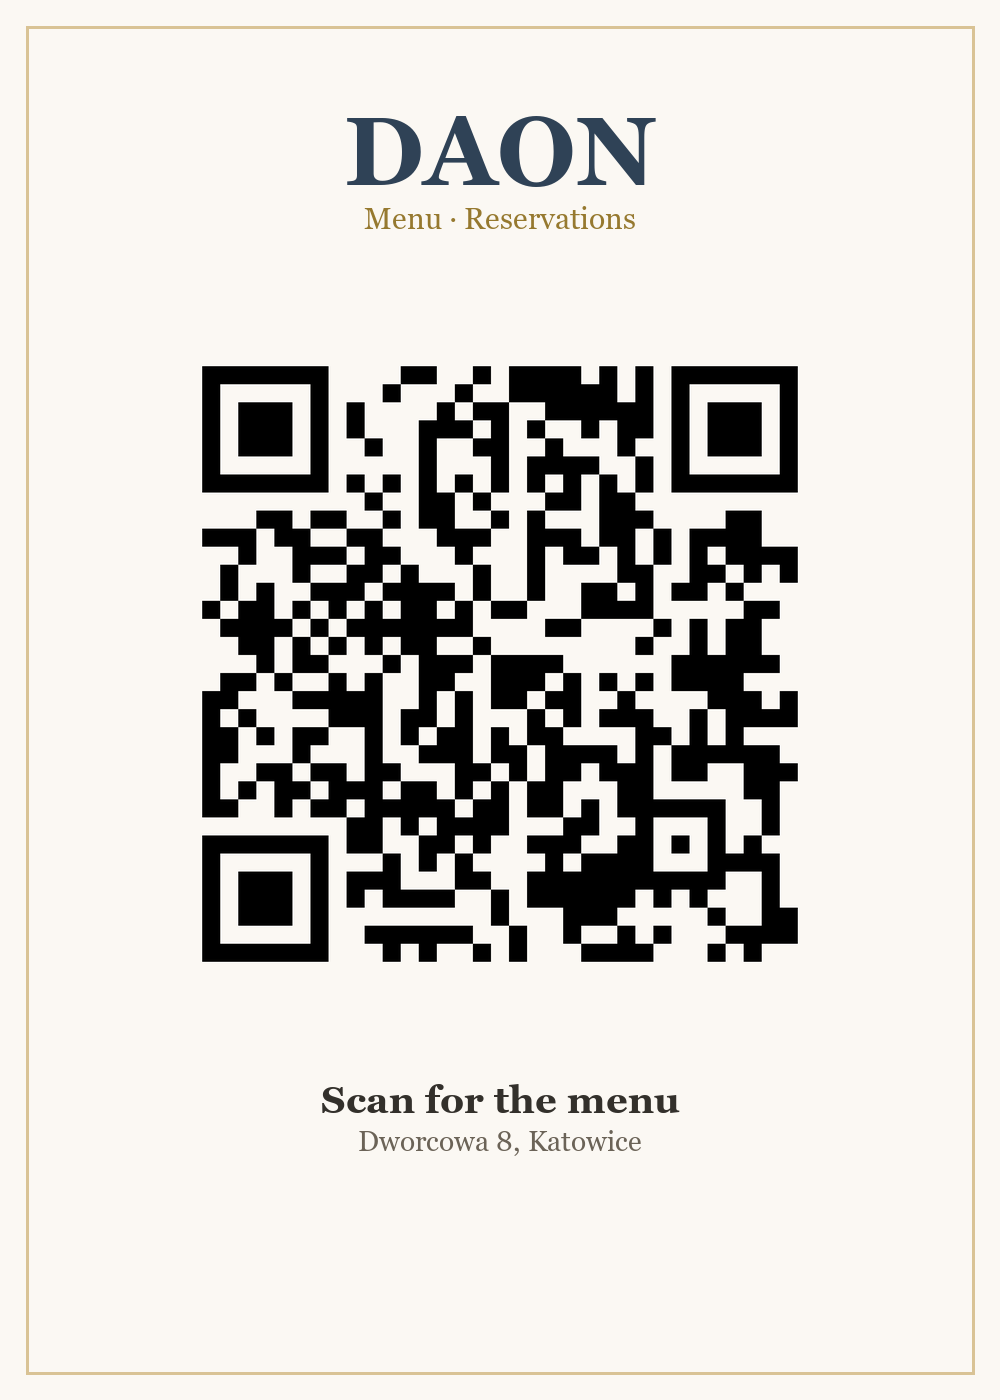
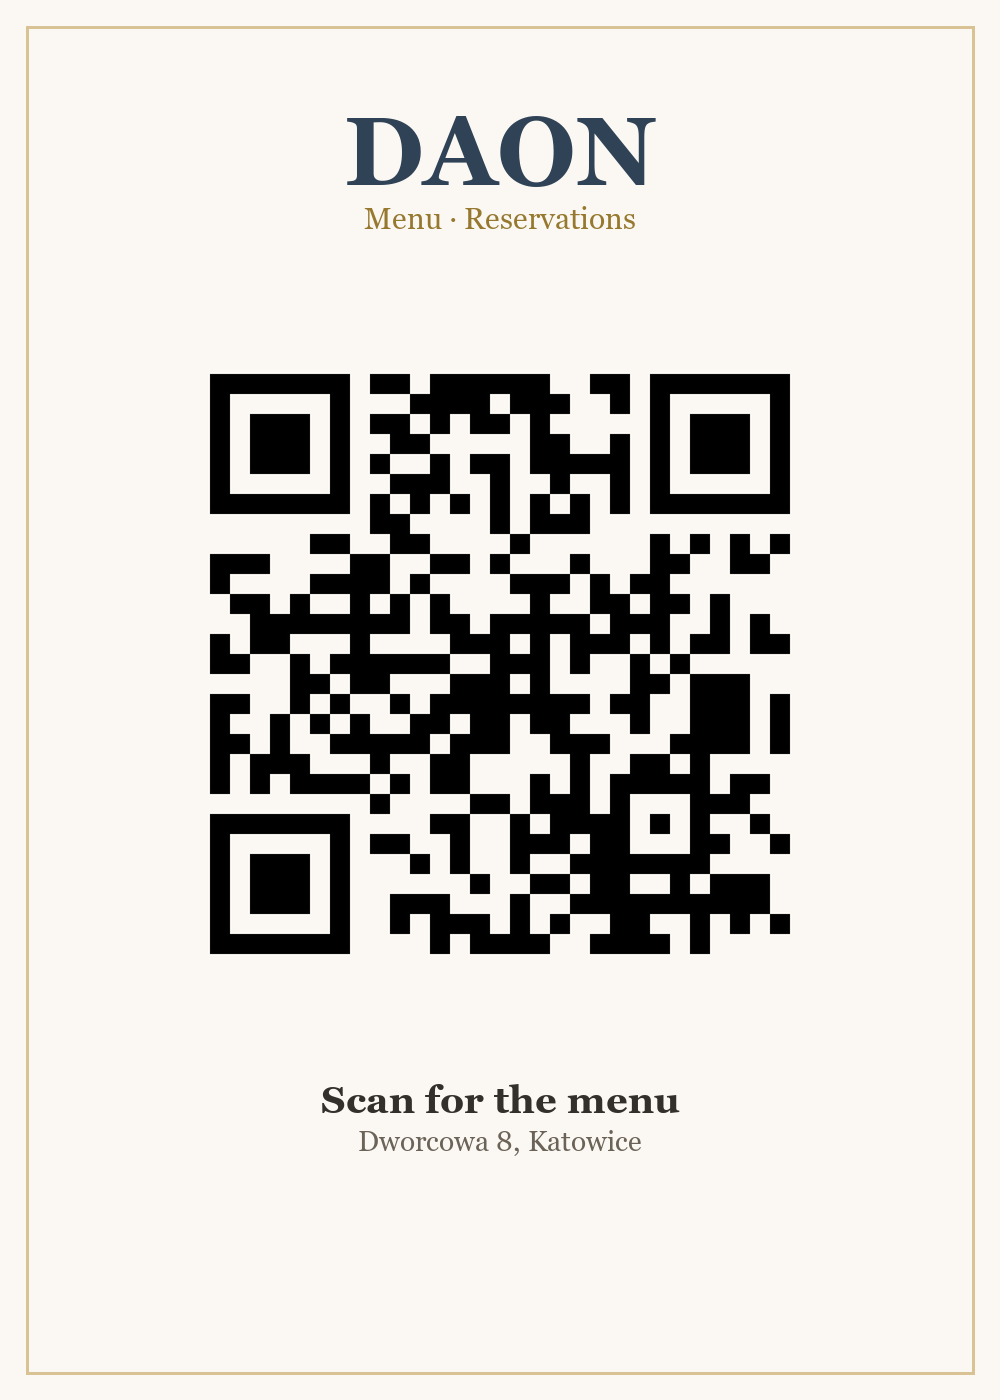
daon.pl is live
Certificate issued for the domain and www, nginx serving /var/www/daon over
HTTPS with the reservation API behind /api on the same origin, www and plain
HTTP redirecting to the one address. mcrplanet.com is untouched — a second name
on the same nginx is a config file, not a second server.

Everything that named the old address now names this one: the canonical link,
the OG tags, the sitemap, robots, the structured data, and the QR codes, which
were regenerated and decoded back to check.

The Pages copy keeps building for now and points at the same API. It declares
daon.pl as canonical, so it is not competing for the same search results.

Changed region(s): [[0.186, 0.2457, 0.806, 0.7064]]

diff --git a/index.html b/index.html
@@ -18,8 +18,8 @@
          and an icon rather than a screenshot of the tab. -->
     <link rel="manifest" href="%BASE_URL%site.webmanifest" />
 
-    <link rel="canonical" href="https://nexlyy.github.io/DAON/" />
-    <meta property="og:url" content="https://nexlyy.github.io/DAON/" />
+    <link rel="canonical" href="https://daon.pl/" />
+    <meta property="og:url" content="https://daon.pl/" />
     <meta property="og:type" content="restaurant" />
     <meta property="og:site_name" content="DAON" />
     <meta property="og:title" content="DAON — Korean Restaurant" />
@@ -27,7 +27,7 @@
       property="og:description"
       content="Handmade ramen, Korean BBQ, hot pots and kimbap. Browse the menu and reserve your table."
     />
-    <meta property="og:image" content="https://nexlyy.github.io/DAON/og-image.jpg" />
+    <meta property="og:image" content="https://daon.pl/og-image.jpg" />
     <meta property="og:image:width" content="1200" />
     <meta property="og:image:height" content="630" />
     <meta property="og:locale" content="en_GB" />
@@ -40,7 +40,7 @@
       name="twitter:description"
       content="Handmade ramen, Korean BBQ, hot pots and kimbap. Browse the menu and reserve your table."
     />
-    <meta name="twitter:image" content="https://nexlyy.github.io/DAON/og-image.jpg" />
+    <meta name="twitter:image" content="https://daon.pl/og-image.jpg" />
 
     <link rel="preconnect" href="https://fonts.googleapis.com" />
     <link rel="preconnect" href="https://fonts.gstatic.com" crossorigin />

diff --git a/vite.config.ts b/vite.config.ts
@@ -73,7 +73,7 @@ function structuredData() {
         closes: hours![1],
       })),
     sameAs: [restaurant.links.instagram],
-    hasMenu: 'https://nexlyy.github.io/DAON/menu',
+    hasMenu: 'https://daon.pl/menu/',
     acceptsReservations: 'True',
   }
 

diff --git a/scripts/make-qr.py b/scripts/make-qr.py
@@ -10,7 +10,7 @@ import os
 import segno
 from PIL import Image, ImageDraw, ImageFont
 
-URL = 'https://nexlyy.github.io/DAON/'
+URL = 'https://daon.pl/'
 OUT = os.path.join(os.path.dirname(os.path.dirname(os.path.abspath(__file__))), 'qr')
 os.makedirs(OUT, exist_ok=True)
 

diff --git a/deploy/README.md b/deploy/README.md
@@ -1,4 +1,7 @@
-# Putting the site on daon.pl
+# daon.pl
+
+Live since 4 September 2026. This is how it is put together, and how to publish
+a change.
 
 The site and the reservation API both live on the VPS, under one domain. Same
 origin for both means the browser makes ordinary calls to `/api/` — no CORS, one
@@ -10,10 +13,10 @@ daon.pl/api/       → 127.0.0.1:8787       the reservation service
 mcrplanet.com      → untouched            a second name on the same nginx
 ```
 
-## 1. DNS, at the registrar
+## DNS
 
-One record has to change and one has to be added. Everything else in the zone
-can stay as it is.
+Done. `daon.pl` and `www.daon.pl` both answer `204.168.243.140`, and the AAAA
+record points at the machine's IPv6 address.
 
 | Type | Name | Value | TTL |
 | --- | --- | --- | --- |
@@ -50,34 +53,36 @@ before DNS moves:
 curl --resolve daon.pl:80:204.168.243.140 http://daon.pl/
 ```
 
-What is left is the certificate, and it cannot be issued until the name resolves
-to this machine. Certbot writes the HTTPS blocks and reloads nginx itself:
+The certificate covers both names and expires on 3 December 2026; `certbot.timer`
+renews it twice a day along with mcrplanet's. It was issued with the webroot
+plugin, which needs `/.well-known/acme-challenge/` to keep answering over plain
+HTTP — that location sits above the redirect in the config for exactly that
+reason.
+
+One thing to know if you edit the config: this nginx is 1.24, where `http2` is a
+parameter of `listen`, not a directive of its own. `http2 on;` is 1.25 and
+newer, and 1.24 refuses to start with it.
+
+## Publishing a change
 
 ```bash
-ssh mcr certbot --nginx -d daon.pl -d www.daon.pl --agree-tos -m daonpolska@gmail.com --redirect
+deploy/publish.sh
 ```
 
-Renewal is already automatic: `certbot.timer` runs twice a day and covers every
-certificate on the machine.
+It builds for a domain root rather than a repository subfolder, ships the result
+as a tarball, unpacks it beside the live directory and swaps the two in one
+move. The previous build stays as `/var/www/daon.old`, so a bad deploy is one
+`mv` away from undone.
 
-## 3. The site
+It does not use rsync. The rsync on the machine this is built from is a
+zero-byte stub that exits successfully having copied nothing.
 
-Built for a domain root rather than a repository subfolder:
+## The old address
 
-```bash
-BASE_PATH=/ npm run build
-rsync -az --delete dist/ mcr:/var/www/daon/
-```
-
-`deploy/publish.sh` does both, and is what the GitHub Action runs on a push to
-`main`.
-
-## 4. What changes in the project
-
-- `VITE_BOOKING_API_URL` becomes `https://daon.pl/api`
-- `ALLOWED_ORIGIN` in `/opt/daon-api/.env` becomes `https://daon.pl`
-- the canonical URL, the OG tags, `sitemap.xml` and `robots.txt`
-- the QR codes — regenerate with `python scripts/make-qr.py` and reprint
+The GitHub Pages copy still builds and still works; every page on it declares
+`https://daon.pl/` as its canonical address, so search engines are pointed at
+the domain. Turning it off is a one-line change to the workflow whenever you
+want to — nothing depends on it any more.
 
 ## Why not GitHub Pages with a custom domain
 

diff --git a/qr/README.md b/qr/README.md
@@ -1,6 +1,6 @@
 # Table codes
 
-All four files point at the same address: https://nexlyy.github.io/DAON/
+All four files point at the same address: https://daon.pl/
 
 | File | What it is for |
 | --- | --- |
@@ -23,5 +23,4 @@ Regenerate after a change of address:
 python scripts/make-qr.py
 ```
 
-**The address will change.** These point at a GitHub Pages URL under a personal
-account. Reprint once the restaurant has its own domain.
+These point at the restaurant's own domain, so they are the ones to print.
